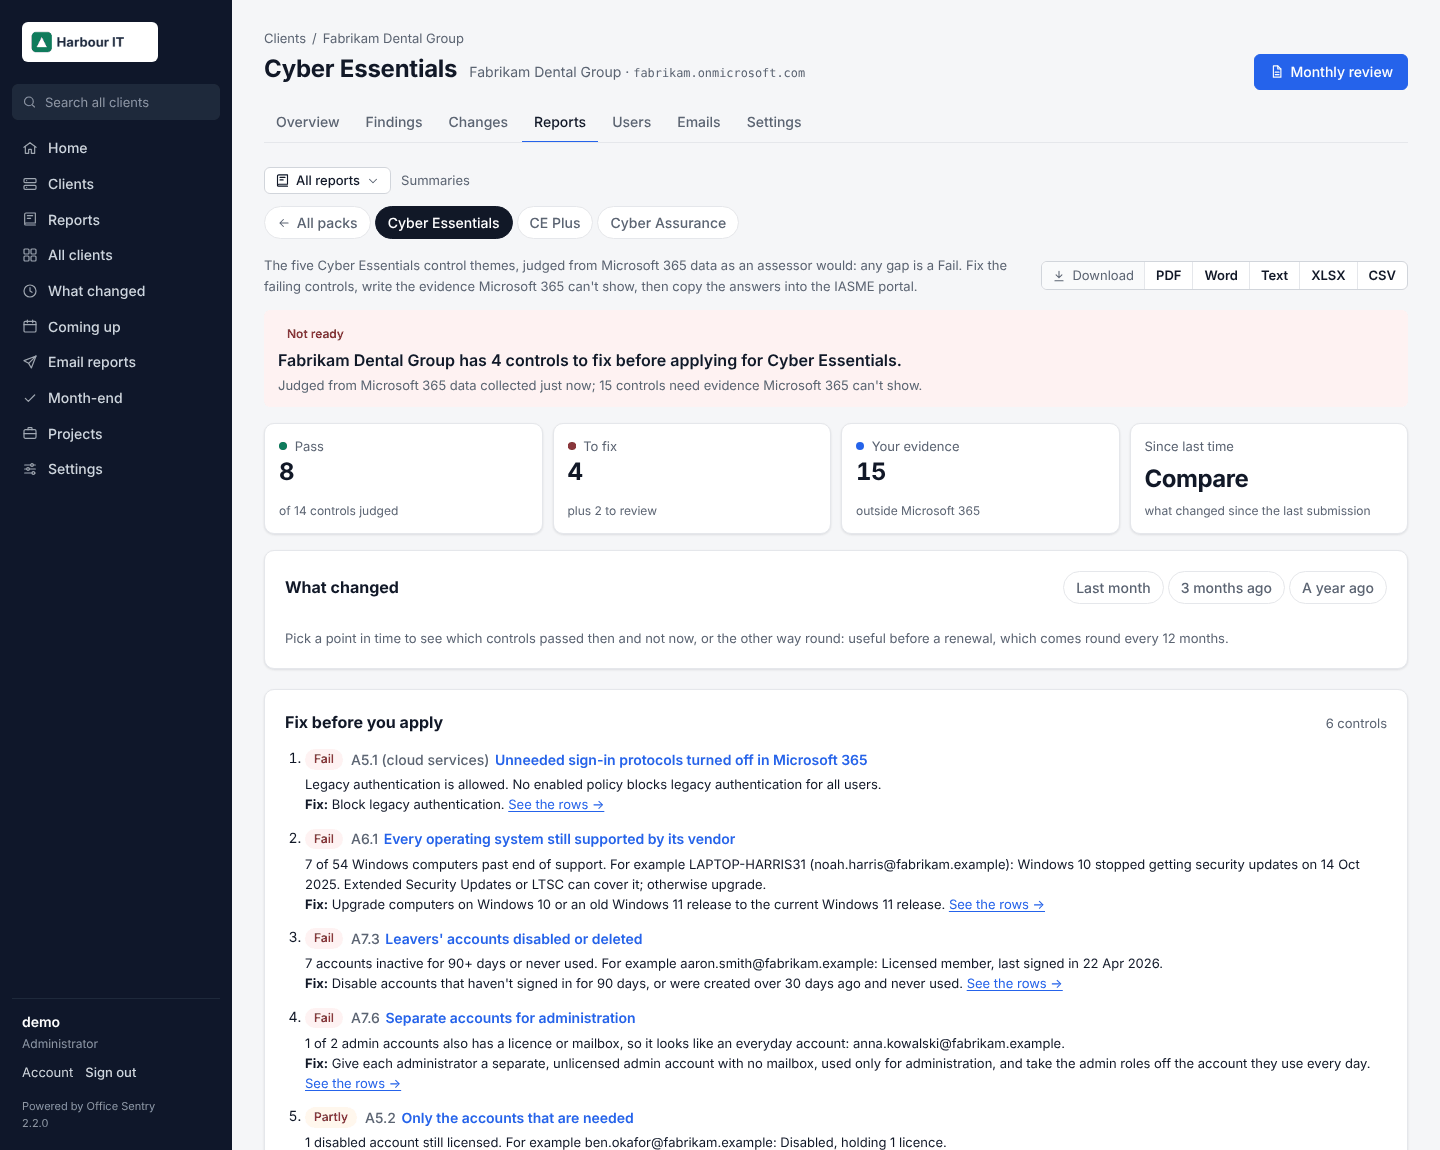
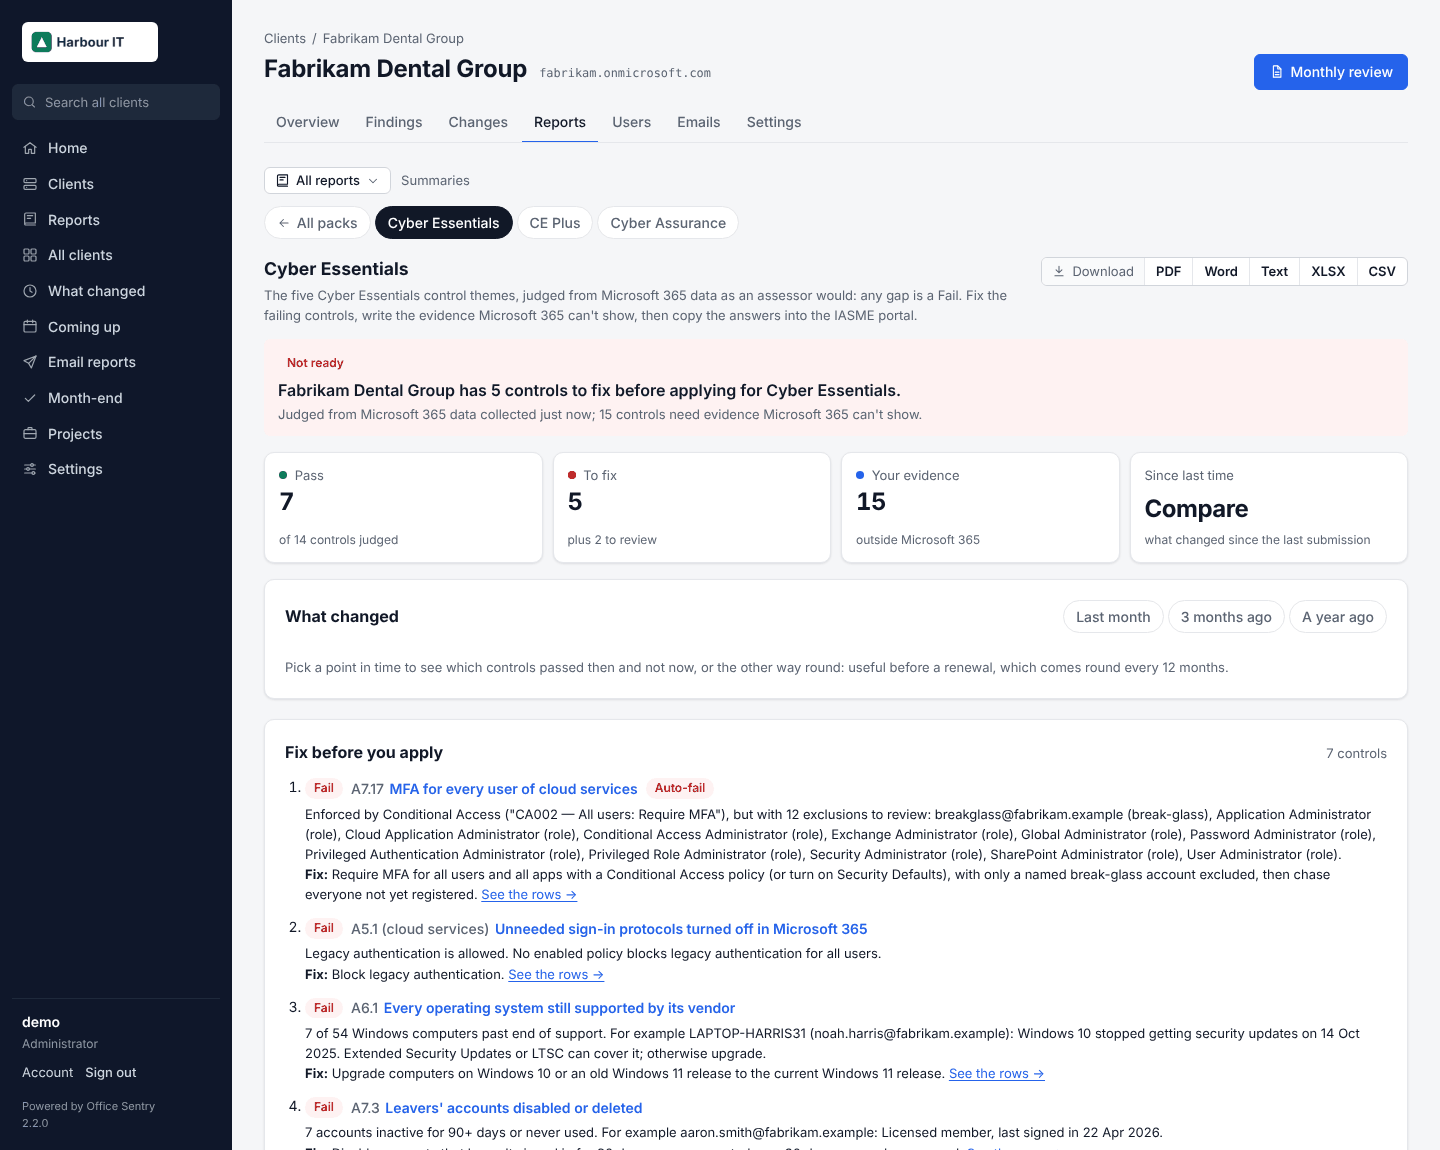
Evidence packs name the admin roles left out of MFA
The MFA-for-everyone answer listed roles a Conditional Access policy excludes
by their template IDs. It now looks their names up from the collected role
definitions, as the Conditional Access report does.

diff --git a/v2/officesentry/reports/evidence_base.py b/v2/officesentry/reports/evidence_base.py
@@ -195,6 +195,8 @@ def _mfa_everyone(snap: TenantSnapshot, results: dict[str, RuleResult]):
             "Defaults are off." + (f" {left_out}" if left_out else "") + tail + registered
         )
     names, users = _names(snap), _users(snap)
+    d = coverage.directory(snap)
+    role_names = d.role_names if d else {}  # policies name roles by template id
     people, groups = {}, {}
     for p in covering:
         spec = (p.get("conditions") or {}).get("users") or {}
@@ -203,7 +205,7 @@ def _mfa_everyone(snap: TenantSnapshot, results: dict[str, RuleResult]):
         for gid in spec.get("excludeGroups") or []:
             groups.setdefault(gid, f"{names.get(gid, gid)} (group)")
         for rid in spec.get("excludeRoles") or []:
-            groups.setdefault(rid, f"{names.get(rid, rid)} (role)")
+            groups.setdefault(rid, f"{role_names.get(rid) or names.get(rid, rid)} (role)")
         if spec.get("excludeGuestsOrExternalUsers"):
             groups.setdefault("guests", "Guests and external users")
     by = f"Enforced by Conditional Access ({_quoted(coverage.policy_name(p) for p in covering)})"

diff --git a/v2/tests/test_evidence_answers.py b/v2/tests/test_evidence_answers.py
@@ -86,13 +86,14 @@ def test_mfa_is_partly_when_anyone_but_break_glass_is_excluded(db, two_tenants):
     roles = copy.deepcopy(gd.CA_MFA_ALL)
     roles["conditions"]["users"].update(
         excludeUsers=[],
-        excludeRoles=["role-1"],
+        excludeRoles=["role-1", gd.EXCH],
         excludeGuestsOrExternalUsers={"guestOrExternalUserTypes": "b2bCollaborationGuest"},
     )
     seed_tenant(db, bravo, ca=[roles])
     b = _answers(db, bravo)
     assert b["mfa_remote"].suggested == PARTLY
     assert "(role)" in b["mfa_remote"].why and "Guests and external users" in b["mfa_remote"].why
+    assert "Exchange Administrator (role)" in b["mfa_remote"].why  # by name, not its template id
 
 
 def test_security_defaults_answer_yes(db, two_tenants):

diff --git a/CHANGELOG.md b/CHANGELOG.md
@@ -33,6 +33,8 @@ versions follow [semantic versioning](https://semver.org). How to update: [v2/DE
   next one, evidence pages show every download format and their whole answers, and long sign-in
   addresses in What changed and the Activity history break onto the next line. Settings > Users fits a
   laptop, with Add a user beside the two-step sign-in policy under the list.
+- Evidence packs name the admin roles a Conditional Access policy leaves out of MFA ("Exchange Administrator
+  (role)") instead of showing their Microsoft IDs.
 
 ## [2.2.0] - 2026-10-11
 
